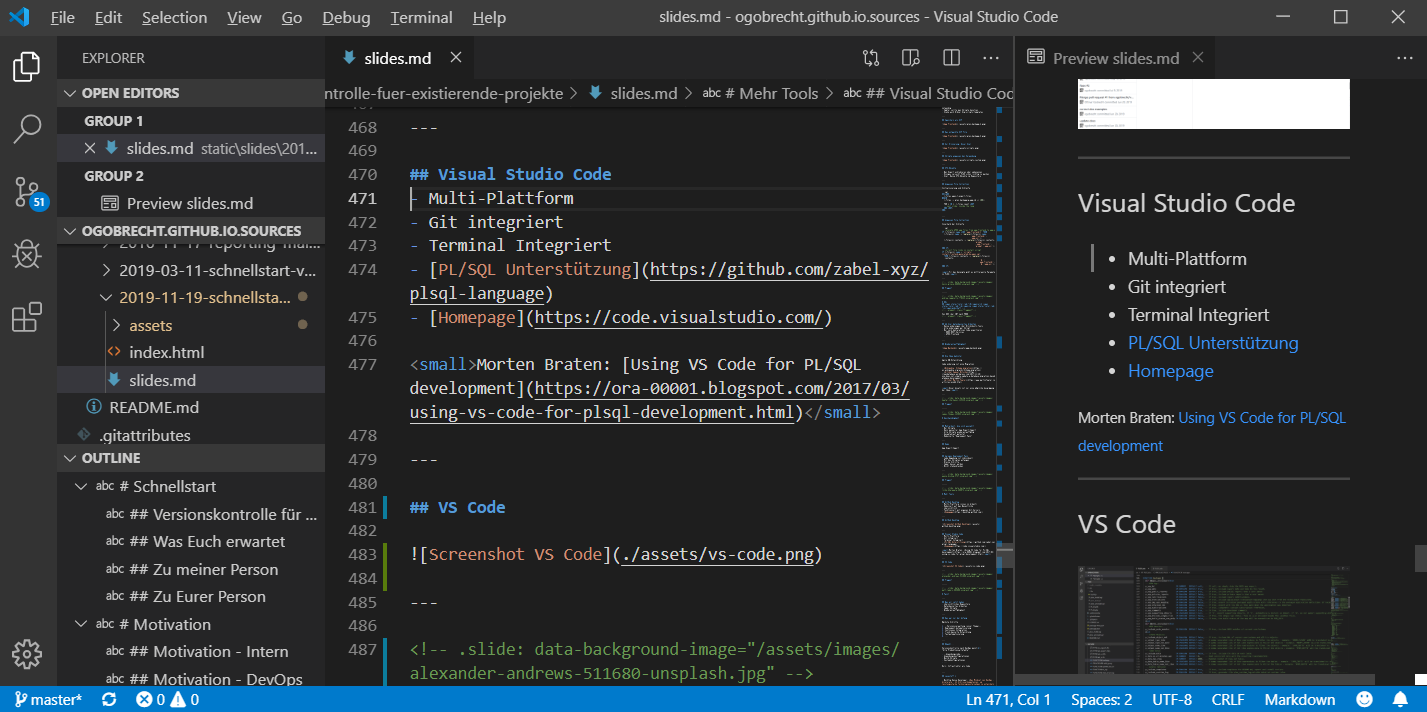
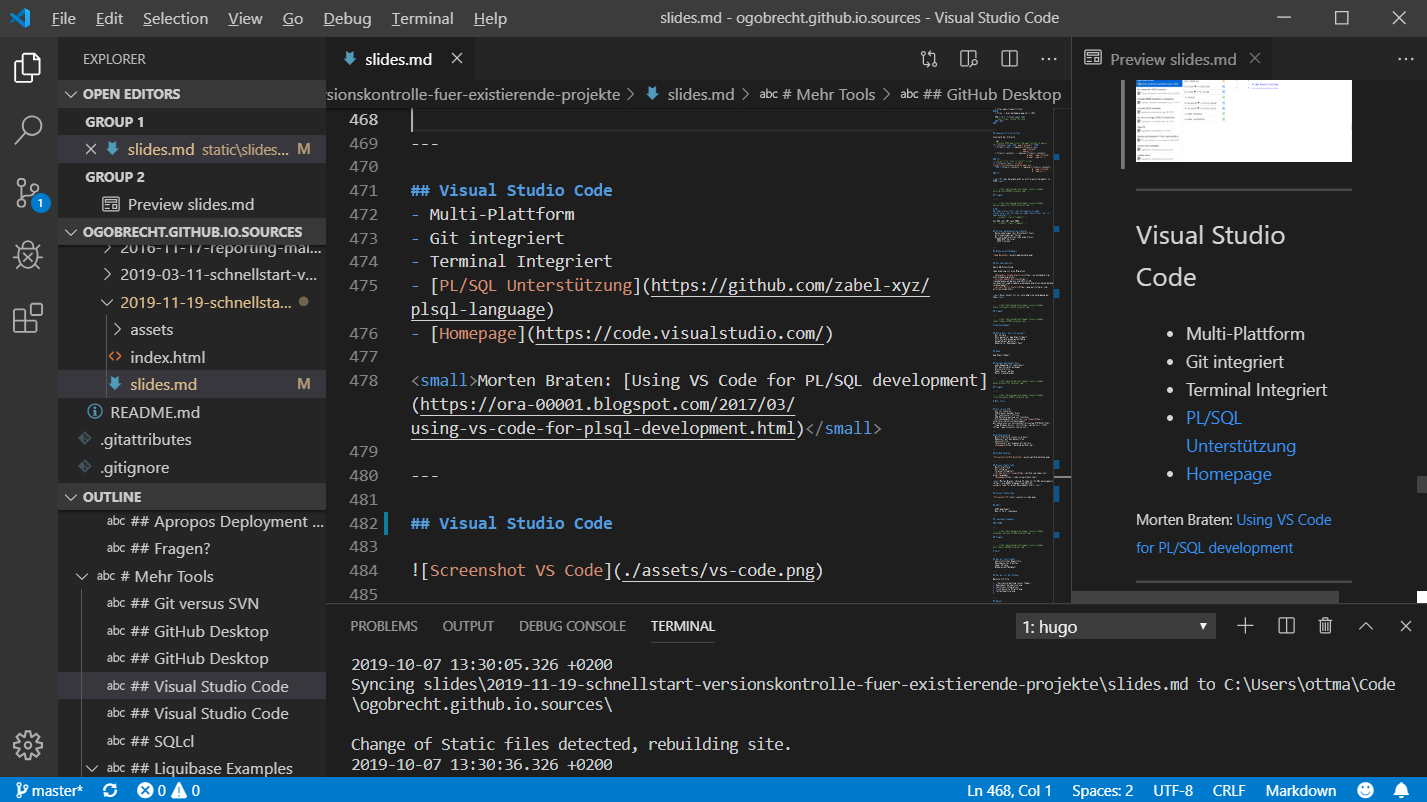
improved slides

diff --git a/static/slides/2019-11-19-schnellstart-versionskontrolle-fuer-existierende-projekte/slides.md b/static/slides/2019-11-19-schnellstart-versionskontrolle-fuer-existierende-projekte/slides.md
@@ -11,8 +11,10 @@ Nürnberg, 19. November 2019
 ## Was Euch erwartet
 - Motivation: DevOps, der erste Schritt
 - Toolvergleich: Export Schema DDL
-- Skripte & Wiederanlauffähigkeit
-- Mehr Tools: Quellcode-Verwaltung, Editor
+- Repositoryaufbau: Tool PLEX
+- DDL: Skripte & Wiederanlauffähigkeit
+- Mehr Tools: Git-Client, Editor, Liquibase
+- Fazit & nächste Schritte
 
 ---
 
@@ -61,7 +63,7 @@ Leistungsstarke gegenüber leistungsschwachen Unternehmen laut [State of DevOps 
 
 ---
 
-## Bullshit, oder?
+## Kann man das glauben?
 
 Buchtip: [Das Mindset von DevOps - Accelerate](https://www.heise.de/developer/artikel/Das-Mindset-von-DevOps-Accelerate-4495067.html)
 
@@ -103,7 +105,7 @@ Die ersten Schritte
 Kapitel 11: Führungskräfte und Manager,<br>
 Transformationale Führung
 
-> Ermutigen Sie Ihre Belegschaft, mindestens einmal im Jahr technische Konferenzen zu besuchen und das dort Gelernte für das gesamte Team zusammenzufassen.
+> „Ermutigen Sie Ihre Belegschaft, mindestens einmal im Jahr technische Konferenzen zu besuchen und das dort Gelernte für das gesamte Team zusammenzufassen.“
 
 ---
 
@@ -219,17 +221,8 @@ Anmerkungen:
 ## Anmerkungen PLEX
 - Ist ein Package (<span style="color:red;">PL</span>/SQL <span style="color:red;">Ex</span>port Utilities)
 - Ausgabeverzeichnisstruktur anpassbar
+- APEX App zerlegt<br>(Änderungen im VCS nachvollziehbar)
 - [Projekt auf GitHub](https://github.com/ogobrecht/plex)
-
----
-
-## Git versus SVN
-- Git ist schneller
-- SVN braucht weniger Platz
-- Git funktioniert offline
-- SVN Rechteverwaltung ist flexibler
-- Entscheidungshilfe: [Artikel zum Thema](https://entwickler.de/online/development/git-subversion-svn-versionskontrollsystem-579792227.html)
-- Tipp Windows Server: [Git](https://gitea.io/), [SVN](https://www.visualsvn.com/server/)
 
 ---
 
@@ -292,7 +285,13 @@ Anmerkungen:
 
 ---
 
-## Zur Erinnerung: Unser Ziel
+## Frontend zerlegt
+
+![App Frontend](/assets/images/neues-bild-aussuchen.jpg)
+
+---
+
+## Kopierte Templates
 
 ![App Frontend](./assets/scripts.png)
 
@@ -301,6 +300,12 @@ Anmerkungen:
 ## Skripte anpassen bei Verwendung
 
 ![App Frontend](./assets/scripts_custom.png)
+
+---
+
+## Deployment Script Beispiel
+
+![App Frontend](/assets/images/neues-bild-aussuchen.jpg)
 
 ---
 
@@ -314,8 +319,6 @@ Anmerkungen:
 
 ## Anpassen File Collection
 
-Initialisierung und Schleife
-
 ```sql
 DECLARE
   l_files apex_t_export_files;
@@ -323,36 +326,11 @@ BEGIN
   l_files := plex.backapp(p_app_id => 100);
 
   FOR i IN 1..l_files.count LOOP
-  -- next slide: inside the loop
+    l_files(i).name := /*your code here*/;
+    l_files(i).contents := /*your code here*/;
   END LOOP;
 END;
 ```
-
----
-
-## Anpassen File Collection
-
-Innerhalb der Schleife
-
-```sql
--- relocate APEX app files from app_frontend to app_ui
-IF l_files(i).name LIKE 'app_frontend/%' THEN
-  l_files(i).name := replace(l_files(i).name,
-                             'app_frontend/',
-                             'app_ui/');
-  l_files(i).contents := replace(l_files(i).contents, 
-                                 'prompt --app_frontend/', 
-                                 'prompt --app_ui/');
-END IF;
--- correct file links in install script
-IF l_files(i).name = 'scripts/install_frontend_generated_by_apex.sql' 
-  THEN l_files(i).contents := replace(l_files(i).contents, 
-                                      '@../app_frontend/', 
-                                      '@../app_ui/');
-END IF;
-```
-
-<small>Für das Gezeigte gibt es mittlerweile Parameter in PLEX</small>
 
 ---
 
@@ -452,6 +430,16 @@ App Export/Import
 
 ---
 
+## Git versus SVN
+- Git ist schneller
+- SVN braucht weniger Platz
+- Git funktioniert offline
+- SVN Rechteverwaltung ist flexibler
+- Entscheidungshilfe: [Artikel zum Thema](https://entwickler.de/online/development/git-subversion-svn-versionskontrollsystem-579792227.html)
+- Tipp Windows Server: [Git](https://gitea.io/), [SVN](https://www.visualsvn.com/server/)
+
+---
+
 ## GitHub Desktop
 - Multi-Plattform (Linux in Arbeit)
 - Reduziert auf das Wesentliche
@@ -478,9 +466,22 @@ App Export/Import
 
 ---
 
-## VS Code
+## Visual Studio Code
 
 ![Screenshot VS Code](./assets/vs-code.png)
+
+---
+
+## SQLcl
+
+- APEX App Export
+- Neu in 19.2: Liquibase
+
+---
+
+## Liquibase Examples
+
+### FIXME
 
 ---
 
@@ -501,10 +502,11 @@ App Export/Import
 - Dateibasiertes Arbeiten
 - Immer Skripte
 - Wiederanlauffähigkeit
+- Deployment-Vorlagen
 
 ---
 
-## Das war nur der Anfang
+## Die Reise hat begonnen
 
 Nächste Schritte
 
@@ -528,8 +530,20 @@ Versionskontrolle nach DevOps meint<br>
 - Systemkonfigurationen
 - ...
 
-Kurz: Infrastruktur als Code
+Kurz: Infrastruktur als Code<!-- .element: class="fragment"-->
 
+<small>Übrigens: Diese Folien sind auch Code - geschrieben in Markdown</small><!-- .element: class="fragment"-->
+
+---
+
+## Überspitzt formuliert
+
+In einem Reifegradmodell wären wir jetzt fertig.
+
+- Wir nutzen Versionskontrolle
+- Fein, abgehakt, erledigt
+
+In einem Kompetenzmodell schauen wir, was wir noch verbessern können und lernen ständig hinzu...
 
 ---
 

diff --git a/content/posts/templates/examples.md b/content/posts/templates/examples.md
@@ -36,3 +36,15 @@ var dummy = 123;
 {{< /highlight >}}
 <figcaption>Some description with a <a href="https://github.com">link to GitHub</a> in Markdown style and "escaped quote signs"</figcaption>
 </figure>
+
+---
+
+## Quotes
+
+From here: https://www.quora.com/How-do-I-use-German-quotation-marks-on-a-U-S-international-keyboard-without-ALT-codes
+
+> „german“
+
+> “english”
+
+Angle quotes are rarely used in standard German, but if you must, make sure they point inwards: »hallo« – unlike in French, where they point outwards: «bonjour».
